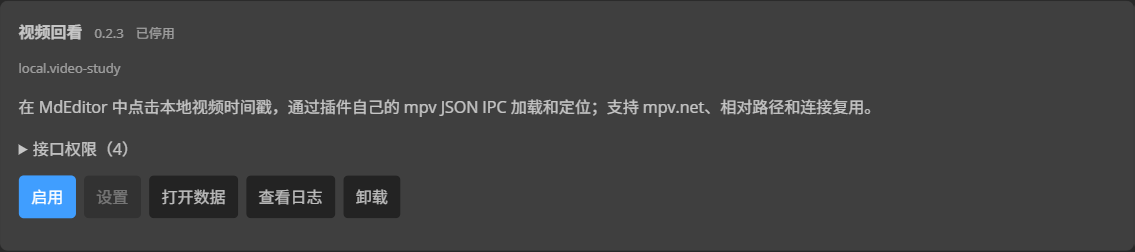
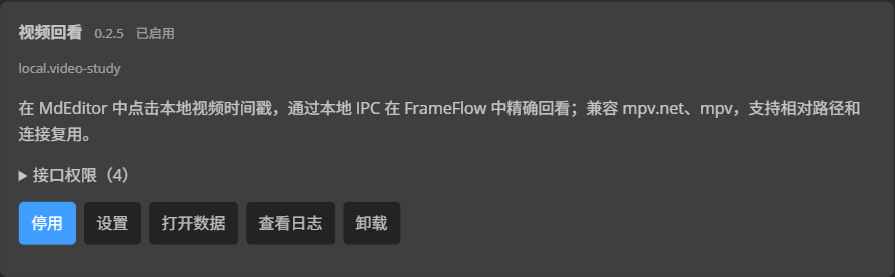
feat(video-study): support user-selected players and FrameFlow in v0.2.5

diff --git a/independent-plugins/video-study/src/controller.ts b/independent-plugins/video-study/src/controller.ts
@@ -29,7 +29,8 @@ export interface ControllerOptions {
   seekTimeout?: number
 }
 
-interface Connection extends Session { client: MpvClient }
+type Frontend = 'frameflow' | 'mpvnet' | 'mpv'
+interface Connection extends Session { client: MpvClient; frontend: Frontend }
 interface Launch { endpoint: string; executable: string; failed: boolean; at: number }
 const pipePrefix = '\\\\.\\pipe\\'
 const validEndpoint = (value: unknown): value is string =>
@@ -84,15 +85,16 @@ export class ReplayController {
     this.connection = null
   }
 
-  async checkPlayer(settings: Settings, signal?: AbortSignal): Promise<{ file: string; version: string }> {
+  async checkPlayer(settings: Settings, signal?: AbortSignal): Promise<{ file: string; version: string; frontend: Frontend }> {
     const file = await resolvePlayer(settings, this.options.application)
     current(signal)
     const info = await this.options.native.inspect(file, signal)
     const description = [info.product, info.description, info.original].join(' ').toLowerCase()
-    if (!description.includes('mpv')) {
-      throw new StudyError('WRONG_PLAYER', '这个程序的版本信息不属于 mpv/mpv.net，请选择实际的播放器程序。')
-    }
-    return { file, version: info.version }
+    // Metadata only selects frontend-specific arguments; compatibility is
+    // verified against the selected process's live IPC, never a brand name.
+    const frontend = description.includes('frameflow') ? 'frameflow'
+      : /mpv[.\s-]?net/.test(description) ? 'mpvnet' : 'mpv'
+    return { file, version: info.version, frontend }
   }
 
   private async connect(settings: Settings, signal: AbortSignal): Promise<Connection> {
@@ -100,7 +102,7 @@ export class ReplayController {
     current(signal)
     if (this.connection?.client.alive && samePath(this.connection.executable, executable)) return this.connection
     this.dropConnection()
-    await this.checkPlayer(settings, signal)
+    const { frontend } = await this.checkPlayer(settings, signal)
     current(signal)
     const endpoints: string[] = []
     const stored = await this.options.readSession()
@@ -111,9 +113,10 @@ export class ReplayController {
     }
     if (this.launch && !this.launch.failed && samePath(this.launch.executable, executable)) endpoints.unshift(this.launch.endpoint)
     endpoints.push(...(this.options.existingEndpoints ??
-      (path.basename(executable).toLowerCase() === 'mpvnet.exe' ? [pipePrefix + 'mpvnet-modern'] : [])))
+      (frontend === 'frameflow' ? [pipePrefix + 'FrameFlow', pipePrefix + 'mpvnet-modern'] :
+        frontend === 'mpvnet' ? [pipePrefix + 'mpvnet-modern'] : [])))
     for (const endpoint of new Set(endpoints)) {
-      const connected = await this.tryConnect(endpoint, executable, signal)
+      const connected = await this.tryConnect(endpoint, executable, frontend, signal)
       if (connected) return connected
     }
 
@@ -128,7 +131,7 @@ export class ReplayController {
         '--idle=yes', '--pause=yes', '--resume-playback=no', '--save-position-on-quit=no',
         '--input-ipc-server=' + launch.endpoint
       ]
-      if (path.basename(executable).toLowerCase() === 'mpvnet.exe') args.unshift('--process-instance=multi')
+      if (frontend !== 'mpv') args.unshift('--process-instance=multi')
       current(signal)
       const process = (this.options.spawnPlayer ?? this.spawnPlayer)(executable, args)
       process.once('error', () => { launch.failed = true })
@@ -141,11 +144,11 @@ export class ReplayController {
     while (Date.now() < deadline) {
       current(signal)
       if (launch.failed) throw new StudyError('START_FAILED', '播放器启动失败，请检查播放器路径。')
-      const connected = await this.tryConnect(launch.endpoint, executable, signal)
+      const connected = await this.tryConnect(launch.endpoint, executable, frontend, signal)
       if (connected) return connected
       await sleep(30, signal)
     }
-    throw new StudyError('START_TIMEOUT', '播放器没有建立本地通信连接，请检查播放器程序后重试。')
+    throw new StudyError('START_TIMEOUT', '播放器没有建立兼容的本地通信连接，请确认所选程序支持 mpv JSON IPC。')
   }
 
   private spawnPlayer(executable: string, args: string[]): PlayerProcess {
@@ -154,7 +157,7 @@ export class ReplayController {
     }) as PlayerProcess
   }
 
-  private async tryConnect(endpoint: string, executable: string, signal: AbortSignal): Promise<Connection | null> {
+  private async tryConnect(endpoint: string, executable: string, frontend: Frontend, signal: AbortSignal): Promise<Connection | null> {
     let client: MpvClient | null = null
     try {
       client = await MpvClient.connect(endpoint, signal, 120)
@@ -174,7 +177,7 @@ export class ReplayController {
       if (typeof await client.get('pause', signal) !== 'boolean') {
         throw new StudyError('WRONG_IPC', '播放器没有提供可验证的播放状态。')
       }
-      const connection = { endpoint, executable, identity, client }
+      const connection = { endpoint, executable, identity, client, frontend }
       current(signal)
       this.connection = connection
       try { await this.options.saveSession({ endpoint, executable, identity }) } catch (error) {
@@ -208,7 +211,12 @@ export class ReplayController {
     if (!alreadyLoaded) {
       const after = client.serial
       client.beginLoad()
-      await client.command(['loadfile', file, 'replace'], signal)
+      // FrameFlow's on_preloaded hook gives an explicit per-file start priority
+      // over saved progress, including when reusing an already-open window.
+      const load = connection.frontend === 'frameflow'
+        ? ['loadfile', file, 'replace', -1, { start: seconds.toFixed(3), 'resume-playback': 'no' }]
+        : ['loadfile', file, 'replace']
+      await client.command(load, signal)
       const deadline = Date.now() + (this.options.loadTimeout ?? 15000)
       let loaded = false
       while (Date.now() < deadline) {

diff --git a/independent-plugins/video-study/settings.html b/independent-plugins/video-study/settings.html
@@ -26,9 +26,9 @@
 </style>
 <body>
   <h2>视频回看</h2>
-  <p class="muted">在笔记中打开时间戳，由这个插件直接启动或连接 mpv / mpv.net，并定位到对应时间。</p>
+  <p class="muted">在笔记中打开时间戳，直接启动或连接你选择的播放器，并定位到对应时间。支持 FrameFlow、mpv.net 和兼容 mpv JSON IPC 的播放器。</p>
   <label for="player">播放器程序</label>
-  <div class="row"><input id="player" type="text" spellcheck="false" placeholder="选择 mpvnet.exe 或 mpv.exe"><button id="choose">选择程序</button></div>
+  <div class="row"><input id="player" type="text" spellcheck="false" placeholder="选择你使用的播放器 .exe 程序"><button id="choose">选择程序</button></div>
   <p class="muted">相对程序路径以 MdEditor 程序所在文件夹为起点：<br><code id="application"></code></p>
   <label class="option"><input id="autoPlay" type="checkbox" checked>定位后开始播放（取消勾选则保持暂停）</label>
   <label class="option"><input id="bringToFront" type="checkbox" checked>回看时显示播放器窗口</label>
@@ -37,7 +37,7 @@
   <div class="help">
     <p>链接写法：<code>[00:01:23.250](&lt;../视频.mp4#t=83.250&gt;)</code>。视频地址相对于这篇 Markdown 所在文件夹解析，移动时请保留笔记与视频的相对目录。</p>
     <p class="muted">在正文中 Ctrl＋点击时间戳，或通过 MdEditor 的“打开链接”入口回看。链接直接由插件接管，不需要浏览器、127.0.0.1 或固定端口。</p>
-    <p class="muted">“检查路径”、保存设置和启用插件只检查程序，不打开视频。停用插件会关闭它自己的通信和身份检查程序，播放器会保留。</p>
+    <p class="muted">“检查路径”、保存设置和启用插件只检查程序路径，不打开视频。实际回看时验证所选播放器的 mpv 通信接口；文件名可以自定义。停用插件会关闭它自己的通信和身份检查程序，播放器会保留。</p>
   </div>
   <script>
     const element = id => document.getElementById(id)

diff --git a/independent-plugins/video-study/src/settings.ts b/independent-plugins/video-study/src/settings.ts
@@ -36,10 +36,10 @@ export function normalizeSettings(raw: Record<string, unknown>): Settings {
 }
 
 export async function resolvePlayer(settings: Settings, application: string): Promise<string> {
-  if (!settings.playerPath) throw new StudyError('PLAYER_NOT_SET', '请先打开“视频回看设置”，选择并保存 mpvnet.exe 或 mpv.exe。')
+  if (!settings.playerPath) throw new StudyError('PLAYER_NOT_SET', '请先打开“视频回看设置”，选择并保存你的播放器程序。')
   const configured = path.resolve(application, settings.playerPath)
-  if (!/^(?:mpvnet|mpv)\.exe$/i.test(path.basename(configured))) {
-    throw new StudyError('WRONG_PLAYER', '播放器只接受 mpvnet.exe 或 mpv.exe。')
+  if (path.extname(configured).toLowerCase() !== '.exe') {
+    throw new StudyError('WRONG_PLAYER', '请选择 Windows 播放器的 .exe 程序。')
   }
   try {
     const actual = await fs.realpath(configured)

diff --git a/independent-plugins/video-study/src/main.ts b/independent-plugins/video-study/src/main.ts
@@ -63,7 +63,7 @@ export async function setup(
       }
     }
     if (action === 'choose') {
-      const choices = await ctx.desktop.chooseFile({ title: '选择 mpvnet.exe 或 mpv.exe', extensions: ['exe'], multiple: false }, context.windowId)
+      const choices = await ctx.desktop.chooseFile({ title: '选择播放器程序（.exe）', extensions: ['exe'], multiple: false }, context.windowId)
       current(ctx.signal)
       if (!choices.length) return { ok: true, cancelled: true }
       const checked = await controller.checkPlayer(normalizeSettings({ playerPath: choices[0] }), ctx.signal)

diff --git a/independent-plugins/video-study/README.md b/independent-plugins/video-study/README.md
@@ -1,10 +1,18 @@
+# MdEditor 8.31 视频回看插件
+
+独立的 **SDK 2 / API 2** 桌面插件。插件 ID 为 local.video-study，版本为 0.2.5。安装包仍然是 .mtplug，内部是 ZIP，根目录含 manifest.json、main.cjs、settings.html 和插件自己的身份检查程序。
+
+## 0.2.5 自选播放器与 FrameFlow 适配
+
+支持 [FrameFlow](https://github.com/lingqifeng0/FrameFlow) V27（基于 mpv.net/mpv）、mpv.net 和兼容 mpv JSON IPC 的播放器。播放器由用户自行选择，不再限制必须使用某几个文件名。自定义或改名后的 `.exe` 也可以保存；版本信息仅用于识别前端所需参数，不作为品牌准入名单。实际回看时验证通信进程身份以及加载、定位、暂停等接口。
+
+优先复用已经验证的会话，随后尝试 FrameFlow 默认命名管道，以及迁移配置可能保留的 mpvnet-modern 管道。无可用连接时，使用 `--process-instance=multi` 创建带随机通信地址的独立回看实例，避免启动请求被转交后丢失专用通信地址。
+
+在 FrameFlow 中加载新视频时携带该条链接的 `start` 和 `resume-playback=no` 文件选项，包括显式零秒起点；随后仍执行 `absolute+exact` 定位并读取时间、路径和暂停状态确认结果。历史断点不覆盖本次回看目标。适配依据为 [FrameFlow V27 源码](https://github.com/lingqifeng0/FrameFlow/tree/ba53c27b917c5f42c20ead4e6d0f9ea13851f292)，只通过外部 JSON IPC 通信，不捆绑播放器。
+
 ## 0.2.3 开源许可补充
 
 安装包附带 MIT `LICENSE` 与 `NOTICE.md`，保留适用的上游版权及许可声明。延续 0.2.2 的保存提示区高度修复，播放器定位逻辑不变。
-
-# MdEditor 8.31 视频回看插件
-
-独立的 **SDK 2 / API 2** 桌面插件。插件 ID 为 local.video-study，版本为 0.2.3。安装包仍然是 .mtplug，内部是 ZIP，根目录含 manifest.json、main.cjs、settings.html 和插件自己的身份检查程序。
 
 旧版 SDK 1 的 local.video-study-0.1.1.mtplug 使用宿主 ipc.mpv，不能作为 API 2 插件使用。新版不要求修改 MdEditor 主程序、app.asar 或 mpv 配置。
 
@@ -14,8 +22,8 @@
 
 ## 安装和使用
 
-1. 在 **MdEditor 8.31 → 插件 → 导入插件包** 中选择 local.video-study-0.2.3.mtplug，更新或安装，启用并授权。更新时保留原有设置。
-2. 在 **偏好设置 → 插件** 中打开视频回看的设置，选择真正的 mpvnet.exe 或 mpv.exe，点击 **保存设置**。例如本机的 C:/App/mpvnet-modern/mpvnet.exe。已有有效配置时无需重新选择。
+1. 在 **MdEditor 8.31 → 插件 → 导入插件包** 中选择 local.video-study-0.2.5.mtplug，更新或安装，启用并授权。更新时保留原有设置。
+2. 在 **偏好设置 → 插件** 中打开视频回看的设置，选择你使用的播放器 `.exe`，点击 **保存设置**。FrameFlow 可选择实际的 FrameFlow.exe；自定义文件名同样可以。原来选择的是已改名或移动的旧程序时，在这里重新选择新程序；已有有效配置时无需重新选择。
 3. 打开已经保存的 Markdown，Ctrl＋点击视频时间戳，或使用 MdEditor 的“打开链接”入口。
 
 示例：
@@ -44,7 +52,7 @@ t 的单位为秒，最多三位小数。视频文件路径相对于原始 Markd
 
 插件自己使用 Node child_process 启动播放器，通过 Windows 命名管道连接 [mpv JSON IPC](https://mpv.io/manual/stable/#json-ipc)。启动参数按数组传递，不经过命令行拼接或浏览器。
 
-优先复用本插件已验证的播放器会话。对于当前 mpvnet-modern，也可以尝试已有 \\.\pipe\mpvnet-modern；只有 Windows 查询到的管道所属进程与所选程序一致时才发送 mpv 命令。没有可用连接时，插件创建随机命名管道，并用 --process-instance=multi 启动 mpv.net 的专用回看实例。普通已经打开、没有 IPC 的播放器无法直接连接，首次回看可能创建新实例。
+优先复用本插件已验证的播放器会话。FrameFlow 尝试默认管道及迁移保留的旧管道，mpv.net 继续尝试 mpvnet-modern 管道；只有 Windows 查询到的管道所属进程与所选程序一致时才发送命令。没有可用连接时，插件创建随机命名管道，并为 FrameFlow 或 mpv.net 添加 --process-instance=multi，启动专用回看实例。没有启用 IPC、或修改了默认管道且未由本插件启动的现有窗口，首次回看可能需要创建新实例。
 
 身份检查包含 PID、真实程序路径和进程启动时间。插件内的 native-helper.exe 由 native/NativeHelper.cs 编译，启用时预热并复用；每次点击不会启动 PowerShell 或现场编译。
 
@@ -68,9 +76,11 @@ t 的单位为秒，最多三位小数。视频文件路径相对于原始 Markd
 
 输出：
 
-- dist/local.video-study-0.2.3.mtplug：安装包。
+- dist/local.video-study-0.2.5.mtplug：安装包。
 - dist/package/：可通过“导入文件夹”安装的解包目录。
-- dist/marktext-video-study-sdk2-0.2.3-src.zip：可迁移源码包。
+- dist/marktext-video-study-sdk2-0.2.5-src.zip：可迁移源码包。
 - dist/SHA256.json：安装包与源码包的 SHA256。
 
-测试使用模拟 mpv 的真实命名管道，验证冷启动调度、连接复用、切换文件、快速点击、取消、断连重连、错误身份、文件缺失、设置和生命周期；本机播放器只读取程序版本信息，不进行播放。实际解码画面与回看速度需要用户点击真实时间戳后验收。
+自动化测试使用模拟 mpv 的真实命名管道，验证自选文件名、冷启动调度、连接复用、切换文件、快速点击、取消、断连重连、错误身份、接口不兼容、文件缺失、设置和生命周期，不播放用户媒体。
+
+本版另外使用 FrameFlow V27 副本、独立配置和生成的视频验证了 461 秒、461.850 秒、零秒起点、历史断点优先级、默认与旧通信管道复用，以及定位后播放。用 MdEditor 成品和临时配置验证插件升级、设置保留及保存提示不闪动。播放器适配和时间戳逻辑全部属于本独立插件，无需重新构建 MdEditor 主程序。

diff --git a/README.md b/README.md
@@ -6,11 +6,11 @@
 
 基于 [MarkText](https://github.com/marktext/marktext) 的本地 Markdown 编辑器定制版，重点改进文字工具栏、悬浮目录、图片与 HTML 布局，以及插件扩展。直接打开和保存 `.md` 文件，保留所见即所得、源码模式、数学公式、代码块和主题等原有能力。
 
-当前主程序版本：**`0.31.0-toolbar.v8.31`**。独立视频回看插件：**`0.2.3`**。本次版本以 **Windows x64** 为主要验证平台。
+当前主程序版本：**`0.31.0-toolbar.v8.31`**。独立视频回看插件：**`0.2.5`**。本次版本以 **Windows x64** 为主要验证平台。
 
 ## 下载
 
-从 [最新 Release](https://github.com/lingqifeng0/MdEditor/releases/latest) 下载 Windows 安装器、便携 ZIP 和独立视频回看插件。更新插件时，在偏好设置中导入新的 `.mtplug`，原有播放器路径与设置保留。
+从 [主程序最新 Release](https://github.com/lingqifeng0/MdEditor/releases/latest) 下载 Windows 安装器与便携 ZIP；[视频回看插件 0.2.5](https://github.com/lingqifeng0/MdEditor/releases/tag/video-study-v0.2.5) 单独发布，新增 FrameFlow 适配。更新插件时，在偏好设置中导入新的 `.mtplug`，原有播放器路径与设置保留。
 
 ## 界面预览
 
@@ -74,7 +74,7 @@
 
 ### 视频时间戳回看插件
 
-视频回看是仓库内的**独立插件**，通过 mpv / mpv.net 的本地 IPC 打开视频并定位到笔记对应时间。支持相对视频路径、播放器连接复用、播放或暂停选项，以及回看时显示播放器窗口。
+视频回看是仓库内的**独立插件**，通过本地 IPC 在 [FrameFlow](https://github.com/lingqifeng0/FrameFlow) 中打开视频并精确定位到笔记对应时间，也兼容 mpv.net 和 mpv。支持相对视频路径、播放器连接复用、播放或暂停选项，以及回看时显示播放器窗口。
 
 ```markdown
 [00:01:23.250](<../视频.mp4#t=83.250>)
@@ -82,7 +82,9 @@
 
 保存 Markdown 后，`Ctrl`＋点击时间戳，或使用编辑器的“打开链接”入口回看。视频地址相对于当前笔记解析；移动笔记与视频时保留相对目录。
 
-插件 0.2.2 修复保存设置时提示区高度反复变化、带动“链接写法”等说明上下闪动的问题。常规反馈预留三行，长路径换行时在检查期间保留完整高度。
+插件 0.2.5 取消播放器文件名白名单，使用你自行选择的 `.exe` 路径，并在实际回看时验证兼容接口。支持 FrameFlow 的默认通信管道和迁移保留的旧管道。加载视频时携带明确起始时间，随后核对精确定位结果，使笔记时间戳优先于播放器的历史断点。无法复用连接时，创建独立回看实例。以上逻辑全部属于独立插件。
+
+保留 0.2.2 对保存设置时提示区高度变化、带动“链接写法”等说明上下闪动的修复。常规反馈预留三行，长路径换行时在检查期间保留完整高度。
 
 插件与主程序分别更新。安装或更新主程序后，已有插件不会自动替换；在 **偏好设置 → 插件** 中导入新 `.mtplug`，可保留原有播放器路径和设置。
 
@@ -158,7 +160,7 @@ node independent-plugins/video-study/scripts/build.cjs
 node --test independent-plugins/video-study/test/*.test.cjs
 ```
 
-视频插件还需要 Windows .NET Framework C# 编译器来生成它自己的进程身份检查程序。产物位于 `independent-plugins/video-study/dist/`；将 `local.video-study-0.2.3.mtplug` 导入编辑器并启用后，在插件设置里选择 `mpvnet.exe` 或 `mpv.exe`。
+视频插件还需要 Windows .NET Framework C# 编译器来生成它自己的进程身份检查程序。产物位于 `independent-plugins/video-study/dist/`；将 `local.video-study-0.2.5.mtplug` 导入编辑器并启用后，在插件设置里选择你使用的播放器 `.exe`。支持 FrameFlow、mpv.net 和兼容 mpv JSON IPC 的播放器，程序文件名可以自定义。
 
 示例插件安装包生成到 `dist/plugins/`。
 
